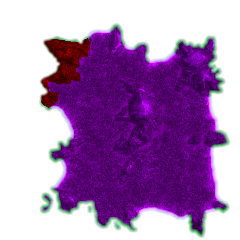
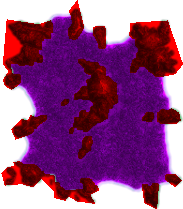
island map converter - whole island computed

diff --git a/src/python27/island_map_converter.py b/src/python27/island_map_converter.py
@@ -30,14 +30,21 @@ from future_builtins import * #@UnusedWildImport
 #except NameError:
 #    pass
 
-import os, sys #@UnusedImport
+
+import json, re, os, sys #@UnusedImport
+from pprint import pprint #@UnusedImport
+#from xml.etree import ElementTree as ET # not working :((
 try:
     from PIL import Image, ImageDraw
 except ImportError:
     print("To download PIL, see http://www.pythonware.com/products/pil/")
     raise
 
+
 __version__ = "0.3"
+__first_bit_shift = 6
+__final_bit_shift = 12 - __first_bit_shift
+
 
 def _transform(rgb):
     # to do: create a mapping from actual .png colors ;))
@@ -50,49 +57,83 @@ def _transform(rgb):
         rgb = (255, 0, 0)
     return rgb
 
-def test():
-    # it looks like the CDATA[] contains 20 bytes (160 bits) = hopefully 5 x 32-bit ints, little endian byte order
-    # first number is always 16, third and fifth are 0
-    # second and fourth numbers are hopefully coordinates in subtiles (1 tile = 2**11 subtiles)
-    # test.isd was created manually from first polygon CDATA of an actual xml from data3.levels.islands.normal.n_l22.isd
-    bit_shift = 6
-    unshifted = 12-bit_shift #@UnusedVariable
-    polygon = []
-    with open("test.isd", "rb") as f:
-        while True:
-            i_coordinates = f.read(20)
-            if not i_coordinates:
-                break
-            try: # python 3.2
-                x = int.from_bytes(i_coordinates[4:8], 'little')
-                y = int.from_bytes(i_coordinates[12:16], 'little')
-            except AttributeError: # python 2.7
-                from struct import unpack
-                x = unpack(str("<l"), i_coordinates[4:8])[0]
-                y = unpack(str("<l"), i_coordinates[12:16])[0]
-            x = (x + (1<<11)) >> bit_shift
-            y = (y + (1<<11)) >> bit_shift
-            polygon.append((x, y))
+def coordinates_from_bytes(b):
+    # it looks like the CDATA[] contains 20 bytes (160 bits) = hopefully 5 x longs (32-bit integers), little endian byte order
+    # (16, x, 0, y, 0) where x and y are coordinates in subtiles (1 tile = 2**12 subtiles)
+    try: # python 3.2
+        x = int.from_bytes(b[4:8], 'little')
+        y = int.from_bytes(b[12:16], 'little')
+    except AttributeError: # python 2.7
+        from struct import unpack
+        x = unpack(str("<l"), b[4:8])[0]
+        y = unpack(str("<l"), b[12:16])[0]
+    # + 1<<11 is here to shift coordinates from corners to the center of tiles (found out by trial and error)
+    # >> __first_bit_shift helps to lower the resolution of subtiles to acceptable levels to draw polygons (performance issues)
+    x = (x + (1<<11)) >> __first_bit_shift
+    y = (y + (1<<11)) >> __first_bit_shift
+    return (x, y)
 
-#    for i1, i2 in ((j,j+1) for j in range(10,26)):
-#        diff_x = (polygon[i2][0] - polygon[i1][0]) >> unshifted
-#        diff_y = (polygon[i2][1] - polygon[i1][1]) >> unshifted
-#        print("{}: {}, {}".format((i1,i2), diff_x, diff_y))
+def convert_polygons_to_tiles(polygons, island_size, out_test_file=None):
+    size = [i << __final_bit_shift for i in island_size] # island size is a tuple (x,y) x=width, y=height
     
-    island_size = (240, 240) # x=width, y=height
-    size = [i<<unshifted for i in island_size] 
-    print(size)
     png = Image.new("RGBA", size)
-    polygon = [(x, size[1]-y) for x, y in polygon]
     draw = ImageDraw.Draw(png)
-    draw.polygon(polygon, fill=(255,0,0))
-#    for i in range(len(polygon)):
-#        #draw.text(i, "{}, {}".format(i[0]>>unshifted, i[1]>>unshifted), fill=(255,255,255))
-#        draw.text(polygon[i], "{}".format(i), fill=(255,255,255))
+    print("Computing polygons:")
+    for i in range(len(polygons)):
+        print("   polygon {}".format(i))
+        polygon = [(x, size[1]-y) for x, y in polygons[i]]
+        draw.polygon(polygon, fill=(255,0,0))
     del draw
-    png = png.resize((240,240))
-    png.save("result.png")
+    
+    png = png.resize(island_size)
+    if out_test_file:
+        png.save(out_test_file)
+    
+    pixels = png.load()
+    tiles = "" # internal text format - 1 letter for each pixel
+    for y in range(island_size[1]):
+        for x in range(island_size[0]):
+            p = pixels[x, y]
+            if p == (0,0,0,0):
+                tiles += " "
+            elif p == (255,0,0,255):
+                tiles += "r"
+            elif p == (0,255,0,255):
+                tiles += "G"
+            elif p == (0,0,255,255):
+                tiles += "b"
+            else:
+                tiles += "?"
+        tiles += "\n"
+    return tiles
+
+def test_isd():
+    isd_path = "..//rda//island_maps//data3.levels.islands.normal.n_l22.isd"
+    with open(isd_path, "rb") as f:
+        isd_text = f.read()
+    BuildBlocker = re.split(r"</?BuildBlockerShapes>", isd_text) # splits to 3 strings - before, inside and after the element
+    if len(BuildBlocker) != 3:
+        e = "Previous split should have resulted in 3 strings. {} found in {}".format(len(BuildBlocker), isd_path)
+        raise NotImplementedError(e)
+    BuildBlocker = BuildBlocker[1].strip(b"</i>Polygon\n\r")
+    polygons = re.split(r"</Polygon>\r\n</i>\r\n<i><Polygon>", BuildBlocker)
+    for i in range(len(polygons)):
+        polygon = polygons[i].strip(b"</i>\n\rCDATA[]")
+        points = re.split(r"]</i>\r\n<i>CDATA\[", polygon)
+        for j in range(len(points)):
+            p = points[j]
+            if len(p) != 20:
+                e = "Each polygon should be 20 bytes. {} bytes found in polygon {} in {}".format(len(p), i, isd_path)
+                raise NotImplementedError(e)
+            x, y = coordinates_from_bytes(p)
+            points[j] = (x, y)
+        polygons[i] = points
+    tiles = convert_polygons_to_tiles(polygons, (240,240), "result.png")
+    
+    with open("result.txt", "w") as f:
+        f.write(tiles)
+    return None
 
 if __name__ == "__main__":
-    test()
+    test_isd()
     
